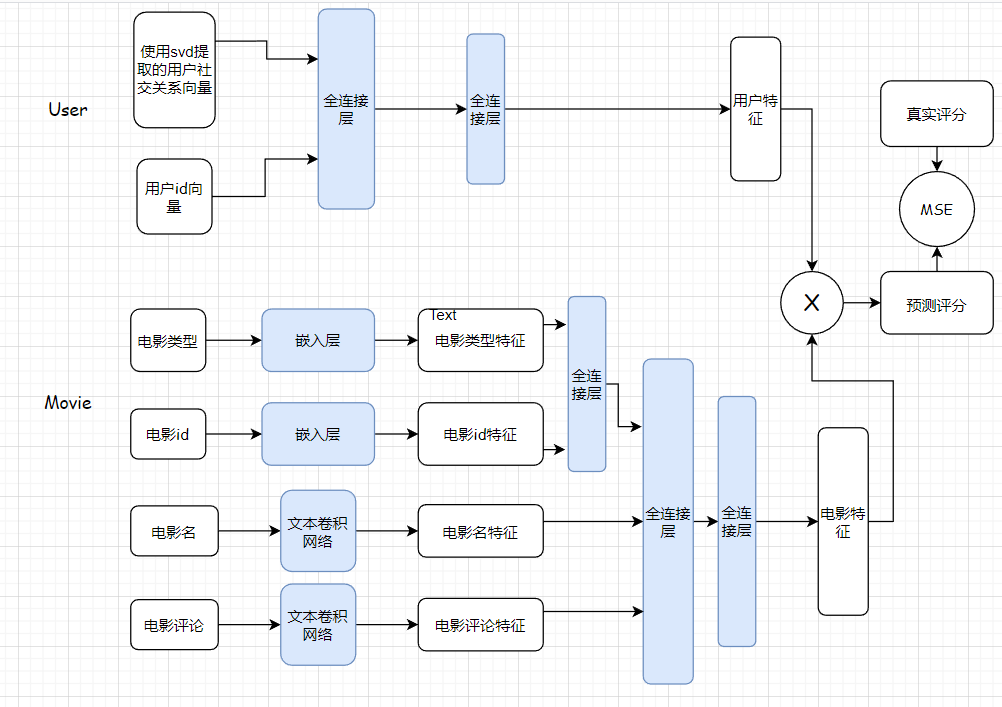
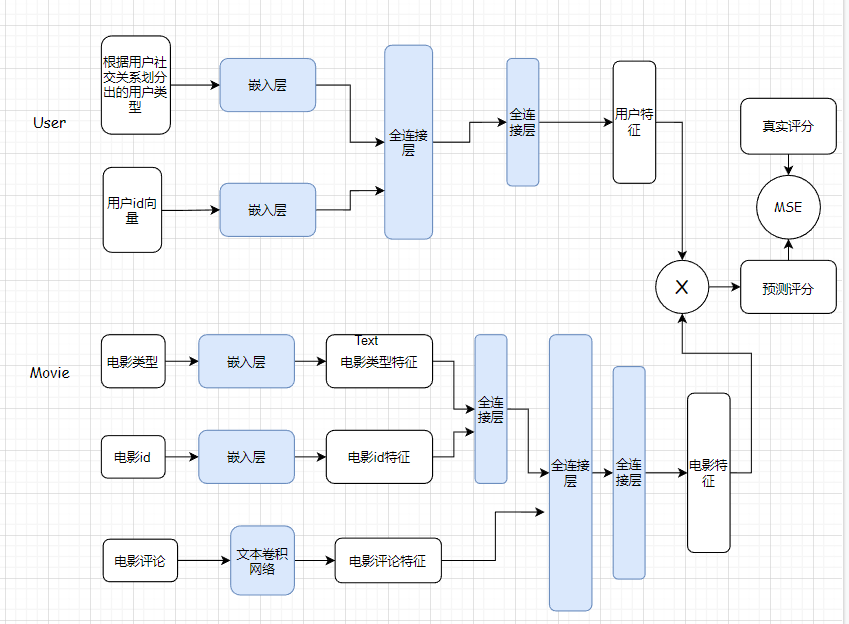
modify model and parse data ok next step to train model

Changed region(s): [[0.0306, 0.0, 1.0, 1.0]]

diff --git a/Recommend/prepare.py b/Recommend/prepare.py
@@ -1,13 +1,178 @@
-from IR.Recommend.config import friends_co_matrix, uservec_size
+import csv
+import pickle
+from IR.Recommend.config import  user_social_path, userid_path, movieid_path, \
+                                 movie_tag_path, mtypeid_path, ctokenid_path, \
+                                 movie_score_path, usertype_path, train_data_root, \
+                                 test_data_root, mtype_path
 
 
-## 使用SVD截取用户社交关系表征向量矩阵
-def get_user_social_matrix(self, co_matrix=friends_co_matrix, vec_size=uservec_size):
-    from sklearn.utils.extmath import randomized_svd
-    U, S, V = randomized_svd(co_matrix, n_components=vec_size, n_iter=5, random_state=None)
-    return U
+def get_user_id():
+    ## 获取user2id字典并保存
+    user2id = {}
+    id2user = {}
+    with open(user_social_path,"r") as f:
+        for i in f.readlines():
+            user_list = []
+            i = i.strip('\n')
+            user_list.append(i.split(':')[0])
+            user_list.extend(i.split(':')[1].split(','))
+            for j in user_list:
+                if j not in user2id:
+                    index = len(id2user)
+                    id2user[str(index)] = j
+                    user2id[j] = index
+
+    with open(userid_path,"wb") as f:
+        pickle.dump((user2id, id2user),f)
+
+def get_movie_id():
+
+    ## 获取movie2id字典并保存
+    movie2id = {}
+    id2movie = {}
+    with open(movie_tag_path,"r",encoding='utf-8') as f:
+        f_csv = csv.DictReader(f)
+        movie_list = []
+        for row in f_csv:
+            movie_list.append(row['id'])
+
+        for j in movie_list:
+            if j not in movie2id:
+                index = len(id2movie)
+                id2movie[str(index)] = j
+                movie2id[j] = index
+
+    with open(movieid_path,"wb") as f:
+        pickle.dump((movie2id, id2movie),f)
+
+def get_movie_typesid():
+
+    ## 获取mtype2id字典并保存
+    mtype2id = {}
+    id2mtype = {}
+    with open(movie_tag_path,"r",encoding='utf-8') as f:
+
+        f_csv = csv.DictReader(f)
+        movie_list = []
+        for row in f_csv:
+            movie_list.extend(row['tag'].split(','))
+
+        for j in movie_list:
+            if j not in mtype2id:
+                index = len(id2mtype)
+                id2mtype[str(index)] = j
+                mtype2id[j] = index
+    with open(mtypeid_path,"wb") as f:
+        pickle.dump((mtype2id, id2mtype),f)
 
 
-# TODO 解析第三阶段提供的数据并组装成训练样本数据逐个保存到txt文件，供dataset创建数据集使用
-def prepare():
-    pass
+def get_comment_tokenid():
+    ## 获取ctoken2id字典并保存
+    ctoken2id = {}
+    id2ctoken = {}
+    with open(movie_score_path, "r", encoding='utf-8') as f:
+
+        f_csv = csv.DictReader(f)
+        movie_list = []
+        for row in f_csv:
+            movie_list.extend(row['tag'].split(','))
+
+        for j in movie_list:
+            if j not in ctoken2id:
+                index = len(id2ctoken)
+                id2ctoken[str(index)] = j
+                ctoken2id[j] = index
+
+    with open(ctokenid_path, "wb") as f:
+        pickle.dump((ctoken2id, id2ctoken), f)
+
+def get_user_socialtype():
+
+    user2type = {}
+    types = []
+    with open(user_social_path, "r") as f:
+        for i in f.readlines():
+            user_list = []
+            i = i.strip('\n')
+            user_list.append(i.split(':')[0])
+            user_list.extend(i.split(':')[1].split(','))
+
+            for j in user_list:
+                if j in user2type:
+                    utype = user2type[j]
+                    break
+
+            if utype:
+                for j in user_list:
+                    user2type[j] = utype
+            else:
+                utype = len(types)
+                types.append(utype)
+                for j in user_list:
+                    user2type[j] = utype
+
+    with open(usertype_path, "wb") as f:
+        pickle.dump(user2type, f)
+
+def get_movie_type():
+    ## 获取movie2type字典并保存
+    movie2type ={}
+
+    with open(mtypeid_path, "rb") as f:
+        mtype2id,_ = pickle.load(f)
+
+    with open(movie_tag_path, "r", encoding='utf-8') as f:
+
+        f_csv = csv.DictReader(f)
+        for row in f_csv:
+            if row['id'] not in movie2type:
+                movie2type[row['id']] = [mtype2id[i] for i in row['tag'].split(',')]
+
+    with open(mtype_path, "wb") as f:
+        pickle.dump(movie2type, f)
+
+def get_dataset():
+    train_dir = train_data_root
+    test_dir = test_data_root
+    with open(userid_path,"rb") as f:
+        user2id,_ = pickle.load(f)
+    with open(movieid_path, "rb") as f:
+        movie2id,_  = pickle.load(f)
+    with open(ctokenid_path, "rb") as f:
+        ctoken2id,_ = pickle.load(f)
+    with open(mtype_path, "rb") as f:
+        mtype = pickle.load(f)
+    with open(usertype_path,"rb") as f:
+        user2type = pickle.load(f)
+
+    with open(movie_score_path, "r", encoding='utf-8') as f:
+        totals = len(f.readlines())
+
+    train_num = int(totals*0.7)
+
+    with open(movie_score_path,"r",encoding='utf-8') as f:
+        f_csv = csv.DictReader(f)
+        for i,row in enumerate(f_csv):
+            user_id = user2id[row['user_id']]
+            user_type = user2type[row['user_id']]
+            movie_id = movie2id[row['movie_id']]
+            movie_type = mtype[row['movie_id']]
+            movie_comments = [ctoken2id[i] for i in row['tag'].split(',')]
+            movie_score = row['movie_score']
+
+            if i<train_num:
+                with open(train_dir+str(i)+".txt", "w") as b:
+                    b.write(str(((user_id,user_type,movie_id,movie_type, movie_comments),movie_score)))
+            else:
+                with open(test_dir+str(i)+".txt", "w") as b:
+                    b.write(str(((user_id,user_type,movie_id,movie_type, movie_comments),movie_score)))
+
+
+if __name__ == '__main__':
+    # get_user_id()
+    # get_movie_id()
+    # get_movie_typesid()
+    # get_comment_tokenid()
+    # get_user_socialtype()
+    # get_movie_type()
+    get_dataset()

diff --git a/Recommend/model.py b/Recommend/model.py
@@ -1,6 +1,7 @@
 import torch.nn as nn
 import torch
 import torch.nn.functional as F
+from torch.autograd import Variable
 from IR.Recommend.config import *
 import numpy as np
 
@@ -33,41 +34,42 @@ class TextCnn(nn.Module):
         x = self.fc(x)                                                      # (N,output_dim)
 
         return x
-
-
-# TODO 模型参数的设定
 class Model(nn.Module):
     def __init__(self, social_matrix):
         super(Model, self).__init__()
-        self.social_matrix = torch.from_numpy(self.get_user_social_matrix(social_matrix))
+        self.socialtype_embedding_layer = nn.Embedding(socialtype_max, embed_dim)
         self.uid_embedding_layer = nn.Embedding(uid_max, embed_dim)
         self.movie_types_embedding_layer = nn.Embedding(movie_types_max, embed_dim)
         self.movie_id_embedding_layer = nn.Embedding(movie_id_max, embed_dim)
         self.movie_comments_layer = TextCnn(movie_comments_max, embed_dim, kernel_num, movie_comments_dim)
-        self.movie_title_layer = TextCnn(movie_title_max, embed_dim, kernel_num, movie_title_dim)
-        self.user_fc1 = nn.Linear(user_social_dim, 128)
+        self.user_fc1 = nn.Linear(2*embed_dim, 128)
         self.user_fc2 = nn.Linear(128, 32)
         self.movie_fc1 = nn.Linear(2*embed_dim, 2*embed_dim)
-        self.movie_fc2 = nn.Linear(2*embed_dim+movie_comments_dim+movie_title_dim, 256)
+        self.movie_fc2 = nn.Linear(2*embed_dim+movie_comments_dim, 256)
         self.movie_fc3 = nn.Linear(256, 32)
 
     def forward(self, x):
-        user_ids, user_socials, movie_types, movie_ids, movie_titles, movie_comments = x
-        user_socials = self.social_matrix[torch.LongTensor(user_socials)]
+        user_ids, user_socialtype, movie_ids,movie_types,movie_comments = x
+        user_ids = Variable(user_ids)
+        user_socialtype = Variable(user_socialtype)
+        movie_ids = Variable(movie_ids)
+        movie_types = Variable(movie_types)
+        movie_comments = Variable(movie_comments)
+
+        user_socialtype = self.socialtype_embedding_layer(user_socialtype)
         user_ids = self.uid_embedding_layer(user_ids)
         movie_types = self.movie_types_embedding_layer(movie_types)
         movie_types = movie_types.sum()
         movie_ids = self.movie_id_embedding_layer(movie_ids)
-        movie_titles = self.movie_title_layer(movie_titles)
         movie_comments = self.movie_comments_layer(movie_comments)
 
-        user_feature = torch.cat([user_ids,user_socials],1)
+        user_feature = torch.cat([user_ids,user_socialtype],1)
         user_feature = self.user_fc1(user_feature)
         user_feature = self.user_fc2(user_feature)
 
         movie_feature = torch.cat([movie_types,movie_ids],1)
         movie_feature = self.movie_fc1(movie_feature)
-        movie_feature = torch.cat([movie_feature, movie_titles, movie_comments], 1)
+        movie_feature = torch.cat([movie_feature, movie_comments], 1)
         movie_feature = self.movie_fc2(movie_feature)
         movie_feature = self.movie_fc3(movie_feature)
 

diff --git a/Recommend/config.py b/Recommend/config.py
@@ -1,22 +1,31 @@
 uid_max = None
 movie_types_max = None
 movie_id_max = None
-movie_title_max = None
 movie_comments_max = None
+socialtype_max = None
+
 embed_dim = 32
 movie_comments_dim = 32
-movie_title_dim = 32
+
 user_social_dim = 32
-friends_co_matrix = None
-uservec_size = 10
 window_sizes = {2, 3, 4, 5}
 movie_title_len = 15
 movie_comments_len = 15
 kernel_num = 8
 
-train_data_root = None
-test_data_root = None
+train_data_root = "C:\\Users\\Administrator\\Desktop\\IR\\Recommend\\data\\train\\"
+test_data_root = "C:\\Users\\Administrator\\Desktop\\IR\\Recommend\\data\\test\\"
 batch_size = 200
 learn_rate = 0.1
 weight_decay = 1e-4
 max_epoch = 100
+
+user_social_path = "C:\\Users\\Administrator\\Desktop\\IR\\Recommend\\data\\Contacts.txt"
+movie_tag_path = "C:\\Users\\Administrator\\Desktop\\IR\\Recommend\\data\\Movie_tag.csv"
+movie_score_path = "C:\\Users\\Administrator\\Desktop\\IR\\Recommend\\data\\Movie_score.csv"
+userid_path = "C:\\Users\\Administrator\\Desktop\\IR\\Recommend\\data\\userid.pkl"
+usertype_path = "C:\\Users\\Administrator\\Desktop\\IR\\Recommend\\data\\usertype.pkl"
+movieid_path = "C:\\Users\\Administrator\\Desktop\\IR\\Recommend\\data\\movieid.pkl"
+mtypeid_path = "C:\\Users\\Administrator\\Desktop\\IR\\Recommend\\data\\mtypeid.pkl"
+ctokenid_path = "C:\\Users\\Administrator\\Desktop\\IR\\Recommend\\data\\ctokenid.pkl"
+mtype_path = "C:\\Users\\Administrator\\Desktop\\IR\\Recommend\\data\\mtype.pkl"

diff --git a/Recommend/dataset.py b/Recommend/dataset.py
@@ -22,7 +22,8 @@ class MovieData(data.Dataset):
         label = None
         try:
             with open(self.datas[index]) as f:
-                data,label = eval(f.read())
+                datas = eval(f.read())
+                data,label = datas
         except:
             pass
 

diff --git a/Recommend/train.py b/Recommend/train.py
@@ -50,7 +50,6 @@ def train():
 
         # 可视化训练过程同时保存模型
 
-
 ## 使用NDCG评估效果
 def evaluate():
     pass

diff --git a/Recommend/readme.md b/Recommend/readme.md
@@ -4,3 +4,6 @@
 
 ![](model.png)
 
+## 数据处理说明
+所有数据处理保存的文件保存在data下，使用.gitignore排除push到git，本地拉取(pull)后需重新生成(具体见prepare中的示例代码)
+
